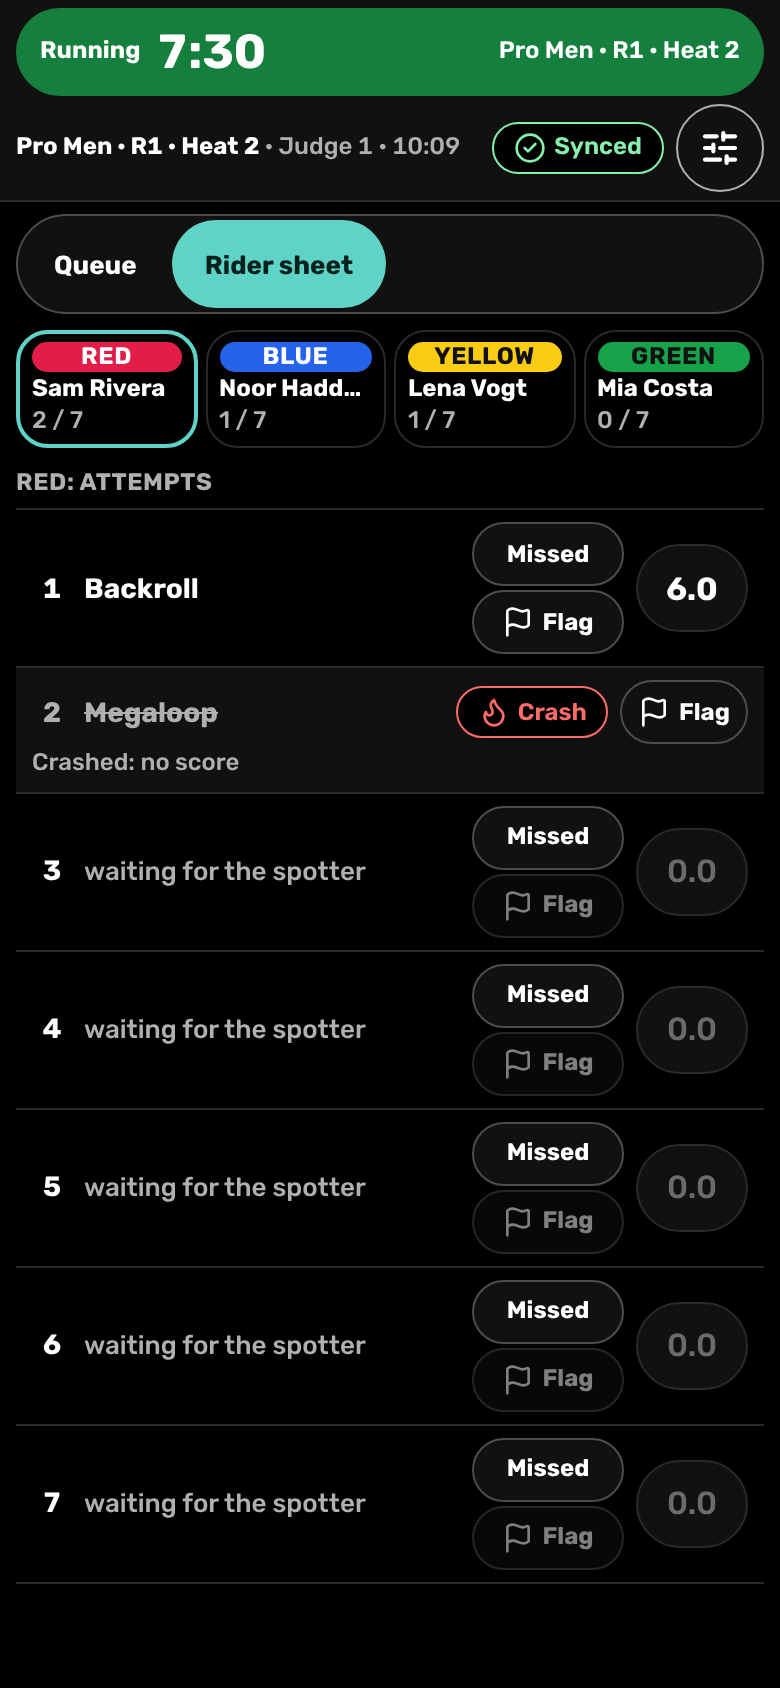
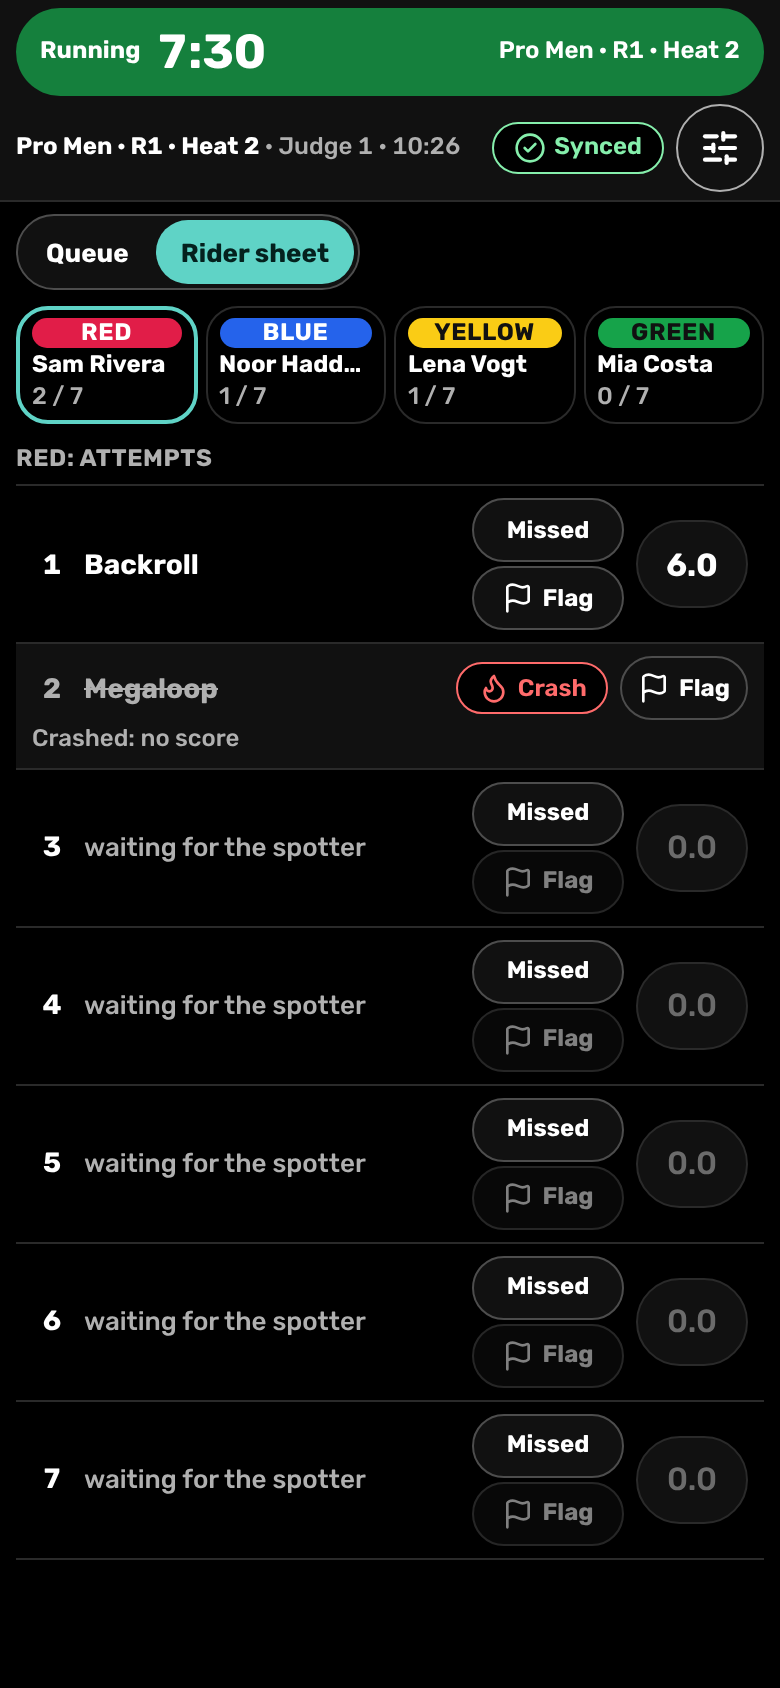
docs: status, final pictures

diff --git a/docs/STATUS.md b/docs/STATUS.md
@@ -1405,10 +1405,13 @@ Release entry 0.19.0 (`docs/RELEASES.md`). `npm run typecheck && npm test`; `npm
 - Manual: judge, spotter, console-phone, observer pages, changelog, release 0.21.0.
 - Measured on `/design` (dev server, 390 × 844, Normal): the judge's 7 lines end at 655 px and the spotter's at 719 px of 844, nothing scrolls; no tap target under 44 px and no box under 16 px on any phone screen of /design.
 
-### Not done yet (waiting for the go-ahead: the shared hosted database is in use by another session)
-- Browser tests on a production build: `e2e/new-look.spec.ts` ((a) 7 lines, (b) no sideways scroll, (c) 44 px / 16 px, (d) Day default), then once each `spotter-rider-sheet`, `rider-sheet`, `review-console`, `live-spotter`, `live-spotter-layout`, `live-judge`, `walkover`, `observer` and the public results page.
-- Pictures for the pull request (judge sheet, spotter sheet, head judge phone in Day and Dark; console and one organiser step in Day) and the retaken manual pictures of the officials' screens.
-- Manual pictures that still show the old colours are listed in the pull request; `npm run manual:shots` retakes them.
+### Round 3 (owner's review): teal, flat buttons, trick name first
+- Teal is the one accent (every button, selected state, focus ring); orange only for "Needs your score" (Day #E65F00, Dark #FF6A00) and the logo. Buttons are white with a thin edge (no grey fill, no thick outline); the Queue keeps its filled keys. Missed over Flag (judge) and L, R over Crash (spotter) sit in small columns beside a bigger trick name; the flag strip has its own full-width row; Cancel heat is a quiet red outline; the front door opens in Day with the Day / Dark switch; the product is Sendbook; the Day header is all white; the view switches are slim.
+
+### Browser steps (done on a production build after PR #47 was rebased in)
+- `new-look.spec.ts` (a)–(d) pass; the existing files spotter-rider-sheet (22), rider-sheet, review-console, live-spotter, live-spotter-layout, live-judge, walkover, observer and the public results page pass once each (one earlier spotter-rider-sheet timeout passed on its one re-run).
+- `new-look-shots.spec.ts` looks at the console, big screen, Flag view, public event and results, Riders step and Admin with real data: no sideways scrolling anywhere; pictures in `docs/design-pass/final-*.png`.
+- Bundle-size budget (`public-budget`): main already exceeds its limits in this sandbox (home 288 KB / 261 KB of scripts); this branch adds the Rubik font: home 325 KB (+37 KB, +1 request), results 279 KB (+36), live heat 322 KB (+37); scripts unchanged.
 
 ### How to test on a phone
 - Release entry 0.21.0 in `docs/RELEASES.md`.
